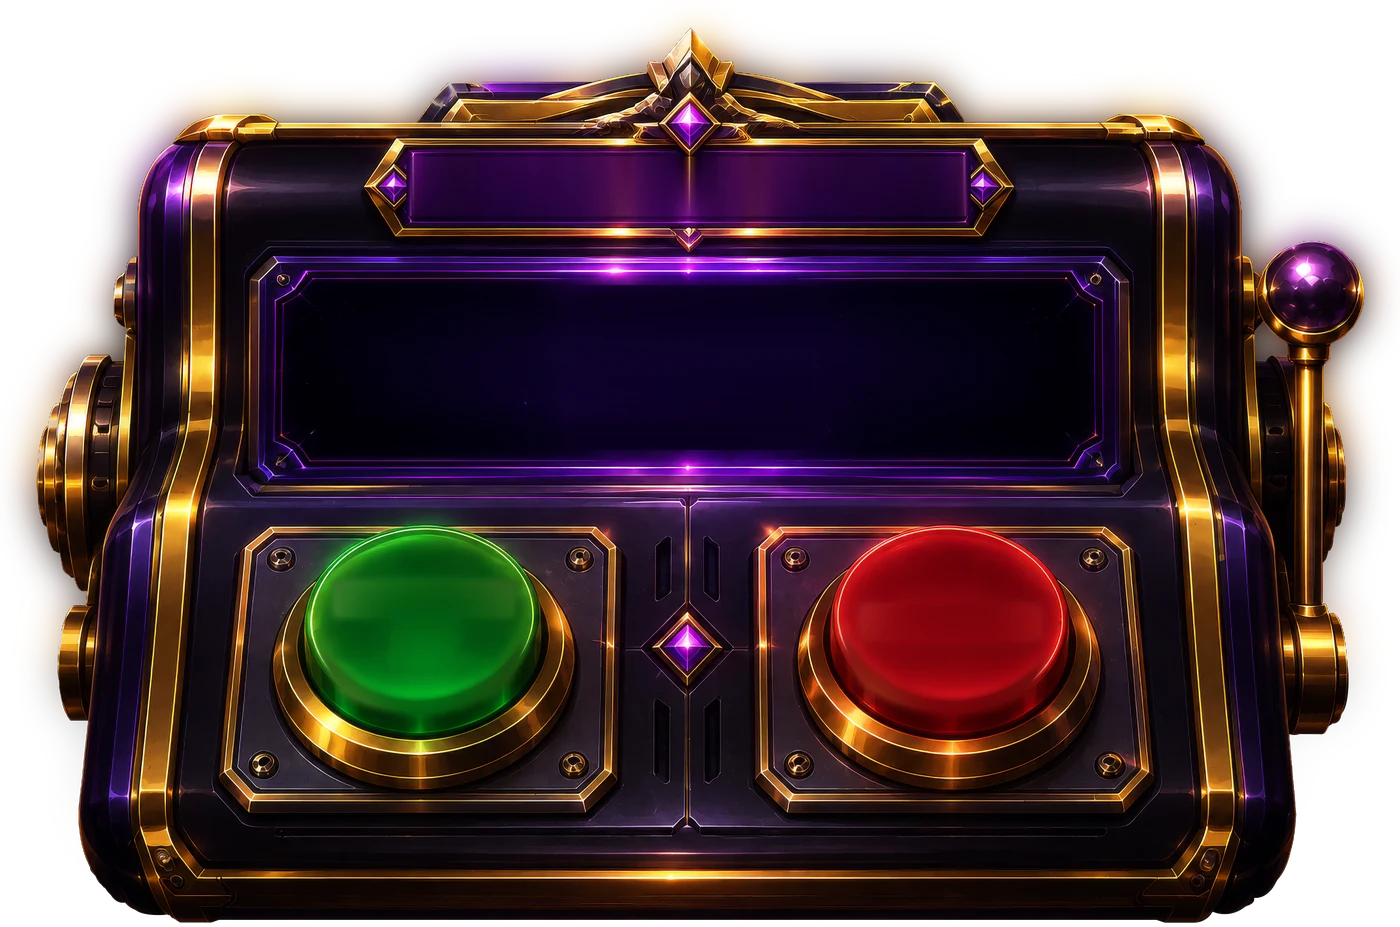
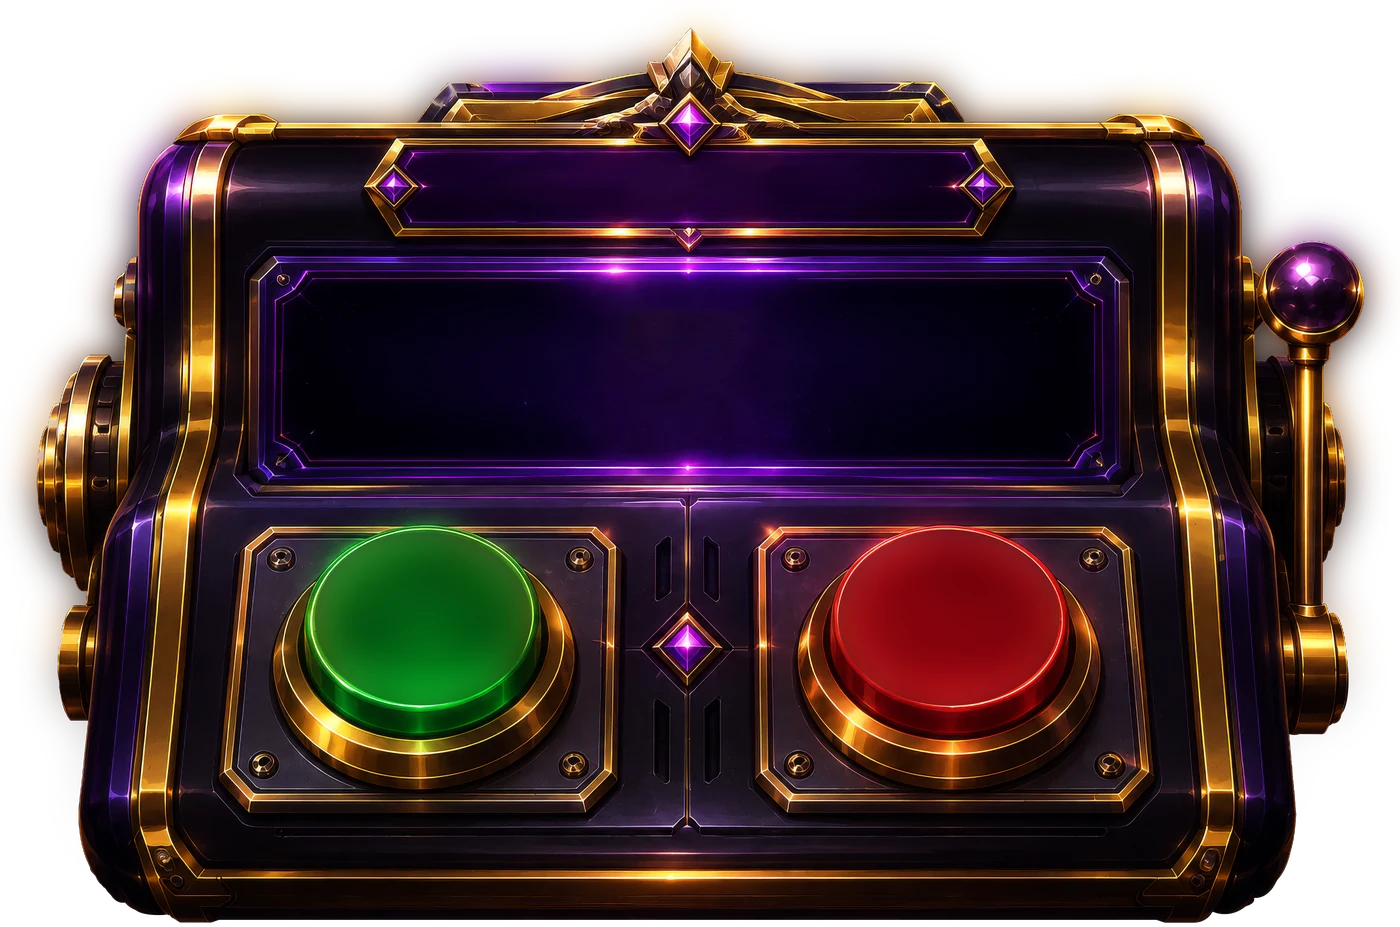
v2.135.0: de tekstvrije machineplaat, cijfers die meekantelen met de knop, en schaduw als op de main page
DE PLAAT is de versie zonder letters uit de Oefenen-map. Geometrisch precies
dezelfde render als de vorige (de gouden lijst, de neonlijst en de bollen liggen
op de punt op dezelfde plek), dus alle opgemeten vlakken blijven kloppen en er
hoefde niets meer weggepoetst te worden. Uitgesneden op dezelfde vaste box
(87, 2, 3026, 1947) zodat die maten geldig blijven, en de URL gaat naar ?v=3
omdat /ui/ cache-first in de service worker staat.

DE CIJFERS OP DE BOLLEN staan nu OP de knop in plaats van ervoor. De bollen
staan een slag naar achteren gekanteld, dus een getal dat kaarsrecht op het
scherm staat zweeft ervoor. Vandaar dezelfde kanteling, met de perspectief-
afstand meelopend met de maat, anders klopt de verkorting maar op één
schermbreedte. Zestien graden: bij vierentwintig lag het getal te plat.

"IN DE POT" zat te hoog. Label en bedrag staan nu op de hoogte waar ze in de
mockup stonden (17,3% en 60% van de binnenkant van het scherm) in plaats van als
blok gecentreerd; zo hoort het label bij het getal en niet bij de bovenrand.

SCHADUW zoals op de main page (dezelfde als de tegels op Landing). Op het gouden
bedrag kan dat NIET als text-shadow: die wordt over het geknipte verloop heen
getekend en maakt het goud vuil. Hij ligt daar als tweede, onzichtbare kopie
eronder: zelfde letters, kleur transparant, alleen zijn schaduw is te zien. Geen
filter, want drop-shadow rastert op iOS apart en zet de rechthoek van die laag
over je element heen.

diff --git a/frontend/src/components/KeuzeMachine.tsx b/frontend/src/components/KeuzeMachine.tsx
@@ -24,7 +24,7 @@ import { colors, font } from "../theme/tokens";
 
 /** ?v= erbij omdat /ui/ cache-first in de service worker staat: zonder nieuwe
  *  URL houdt een geïnstalleerde app de oude plaat vast. */
-const ART = "/ui/waaghet-machine.webp?v=2";
+const ART = "/ui/waaghet-machine.webp?v=3";
 /** Verhouding van de plaat (2939x1945 na het uitsnijden). */
 const VERHOUDING = 2939 / 1945;
 
@@ -42,21 +42,41 @@ const VLAK = {
 /** Maten als deel van de BREEDTE van de machine. Niet overgenomen uit de mockup:
  *  die is 2939 breed en op een telefoon staat de machine op ~360, dus de maten
  *  van de mockup zouden hier onleesbaar klein uitvallen. */
-const MAAT = { titel: 0.037, potKop: 0.026, potGetal: 0.082, bolGetal: 0.075 } as const;
+/** De schaduw van de main page (de tegels op Landing), zodat de cijfers hier
+ *  net zo op hun ondergrond liggen als daar. */
+const SCHADUW = "0 2px 6px rgba(0,0,0,.65), 0 0 14px rgba(0,0,0,.5)";
 
-/** Goud met een verloop, geknipt op de letter. Geen text-shadow erbij: die
- *  wordt over het geknipte verloop heen getekend en maakt het vuil. */
-function Goud({ maat, spatie = 0.5, children }: { maat: number; spatie?: number; children: React.ReactNode }) {
+const MAAT = { titel: 0.037, potKop: 0.026, potGetal: 0.082, bolGetal: 0.075 } as const;
+/** Hoe ver de twee bollen naar achteren staan, in graden. Opgemeten aan de
+ *  gouden ring om de knop: die is in het echt rond en op de plaat een ellips. */
+const KANTEL = 16;
+
+/** Goud met een verloop, geknipt op de letter.
+ *
+ *  De schaduw kan er NIET als text-shadow bij: die wordt over het geknipte
+ *  verloop heen getekend en maakt het goud vuil. Hij komt daarom als tweede,
+ *  ONZICHTBARE kopie eronder te liggen: zelfde letters, kleur transparant, en
+ *  alleen zijn text-shadow is te zien. Geen filter, want `drop-shadow` rastert
+ *  op iOS apart en zet dan de rechthoek van die laag over je element heen. */
+function Goud({ maat, spatie = 0.5, schaduw = false, children }: {
+  maat: number; spatie?: number; schaduw?: boolean; children: React.ReactNode;
+}) {
+  const letters: React.CSSProperties = {
+    fontFamily: font.display, fontWeight: 800, fontSize: maat, letterSpacing: spatie,
+    lineHeight: 1, whiteSpace: "nowrap",
+  };
+  const goud: React.CSSProperties = {
+    ...letters,
+    backgroundImage: "linear-gradient(180deg,#FFF6D2 0%,#FFD983 42%,#E7A63A 74%,#F6DD8A 100%)",
+    WebkitBackgroundClip: "text", backgroundClip: "text", color: "transparent",
+  };
+  if (!schaduw) return <span style={goud}>{children}</span>;
   return (
-    <span
-      style={{
-        fontFamily: font.display, fontWeight: 800, fontSize: maat, letterSpacing: spatie,
-        lineHeight: 1, whiteSpace: "nowrap",
-        backgroundImage: "linear-gradient(180deg,#FFF6D2 0%,#FFD983 42%,#E7A63A 74%,#F6DD8A 100%)",
-        WebkitBackgroundClip: "text", backgroundClip: "text", color: "transparent",
-      }}
-    >
-      {children}
+    <span style={{ position: "relative", display: "inline-block" }}>
+      <span aria-hidden style={{ ...letters, position: "absolute", left: 0, top: 0, color: "transparent", textShadow: SCHADUW }}>
+        {children}
+      </span>
+      <span style={{ ...goud, position: "relative" }}>{children}</span>
     </span>
   );
 }
@@ -89,7 +109,13 @@ function Bol({ links, breed, hoog, maat, bedrag, onClick, label }: {
       <span
         style={{
           fontFamily: font.display, fontWeight: 800, fontSize: maat * krimp,
-          lineHeight: 1, color: "#FFFFFF", textShadow: "0 2px 6px rgba(0,0,0,.7)",
+          lineHeight: 1, color: "#FFFFFF", textShadow: SCHADUW,
+          // De bollen staan een slag naar achteren gekanteld. Een getal dat
+          // kaarsrecht op het scherm staat ligt daardoor niet OP de knop maar
+          // ervoor. Vandaar dezelfde kanteling: de perspectiefafstand loopt mee
+          // met de maat, anders klopt de verkorting alleen op één schermbreedte.
+          transform: `perspective(${breed * 0.62}px) rotateX(${KANTEL}deg)`,
+          transformOrigin: "center",
         }}
       >
         {bedrag}
@@ -155,18 +181,21 @@ export function KeuzeMachine({ titel, potKop, pot, volgende, pakLabel, doorLabel
         <Goud maat={breed * MAAT.titel} spatie={breed * 0.004}>{titel}</Goud>
       </div>
 
-      {/* het scherm */}
+      {/* het scherm. Label en bedrag staan op de hoogte waar ze in de mockup
+          stonden en niet netjes gecentreerd: "IN DE POT" hoort dichter op het
+          getal te zitten dan op de bovenrand. Gemeten op de bron: het label op
+          17,3% van de binnenkant en het getal op 60%. */}
       <div
         style={{
           position: "absolute",
           left: `${VLAK.scherm.l * 100}%`, right: `${(1 - VLAK.scherm.r) * 100}%`,
           top: `${VLAK.scherm.t * 100}%`, bottom: `${(1 - VLAK.scherm.b) * 100}%`,
-          display: "flex", flexDirection: "column", alignItems: "center", justifyContent: "center",
-          gap: breed * 0.012,
         }}
       >
         <span
           style={{
+            position: "absolute", left: 0, right: 0, top: "17.3%",
+            transform: "translateY(-50%)", textAlign: "center",
             fontFamily: font.display, fontWeight: 700, fontSize: breed * MAAT.potKop,
             letterSpacing: breed * 0.006, lineHeight: 1, whiteSpace: "nowrap",
             color: colors.ink, textTransform: "uppercase",
@@ -174,7 +203,9 @@ export function KeuzeMachine({ titel, potKop, pot, volgende, pakLabel, doorLabel
         >
           {potKop}
         </span>
-        <Goud maat={breed * MAAT.potGetal} spatie={breed * 0.002}>{pot}</Goud>
+        <div style={{ position: "absolute", left: 0, right: 0, top: "60%", transform: "translateY(-50%)", textAlign: "center" }}>
+          <Goud maat={breed * MAAT.potGetal} spatie={breed * 0.002} schaduw>{pot}</Goud>
+        </div>
       </div>
 
       <Bol links={VLAK.bol.groen} breed={bolBreed} hoog={bolHoog} maat={breed * MAAT.bolGetal} bedrag={String(pot)} label={pakLabel} onClick={onPak} />

diff --git a/frontend/src/version.ts b/frontend/src/version.ts
@@ -1,2 +1,2 @@
 // Bump per user-facing release. Shown in Settings > About.
-export const APP_VERSION = "2.134.0";
+export const APP_VERSION = "2.135.0";
